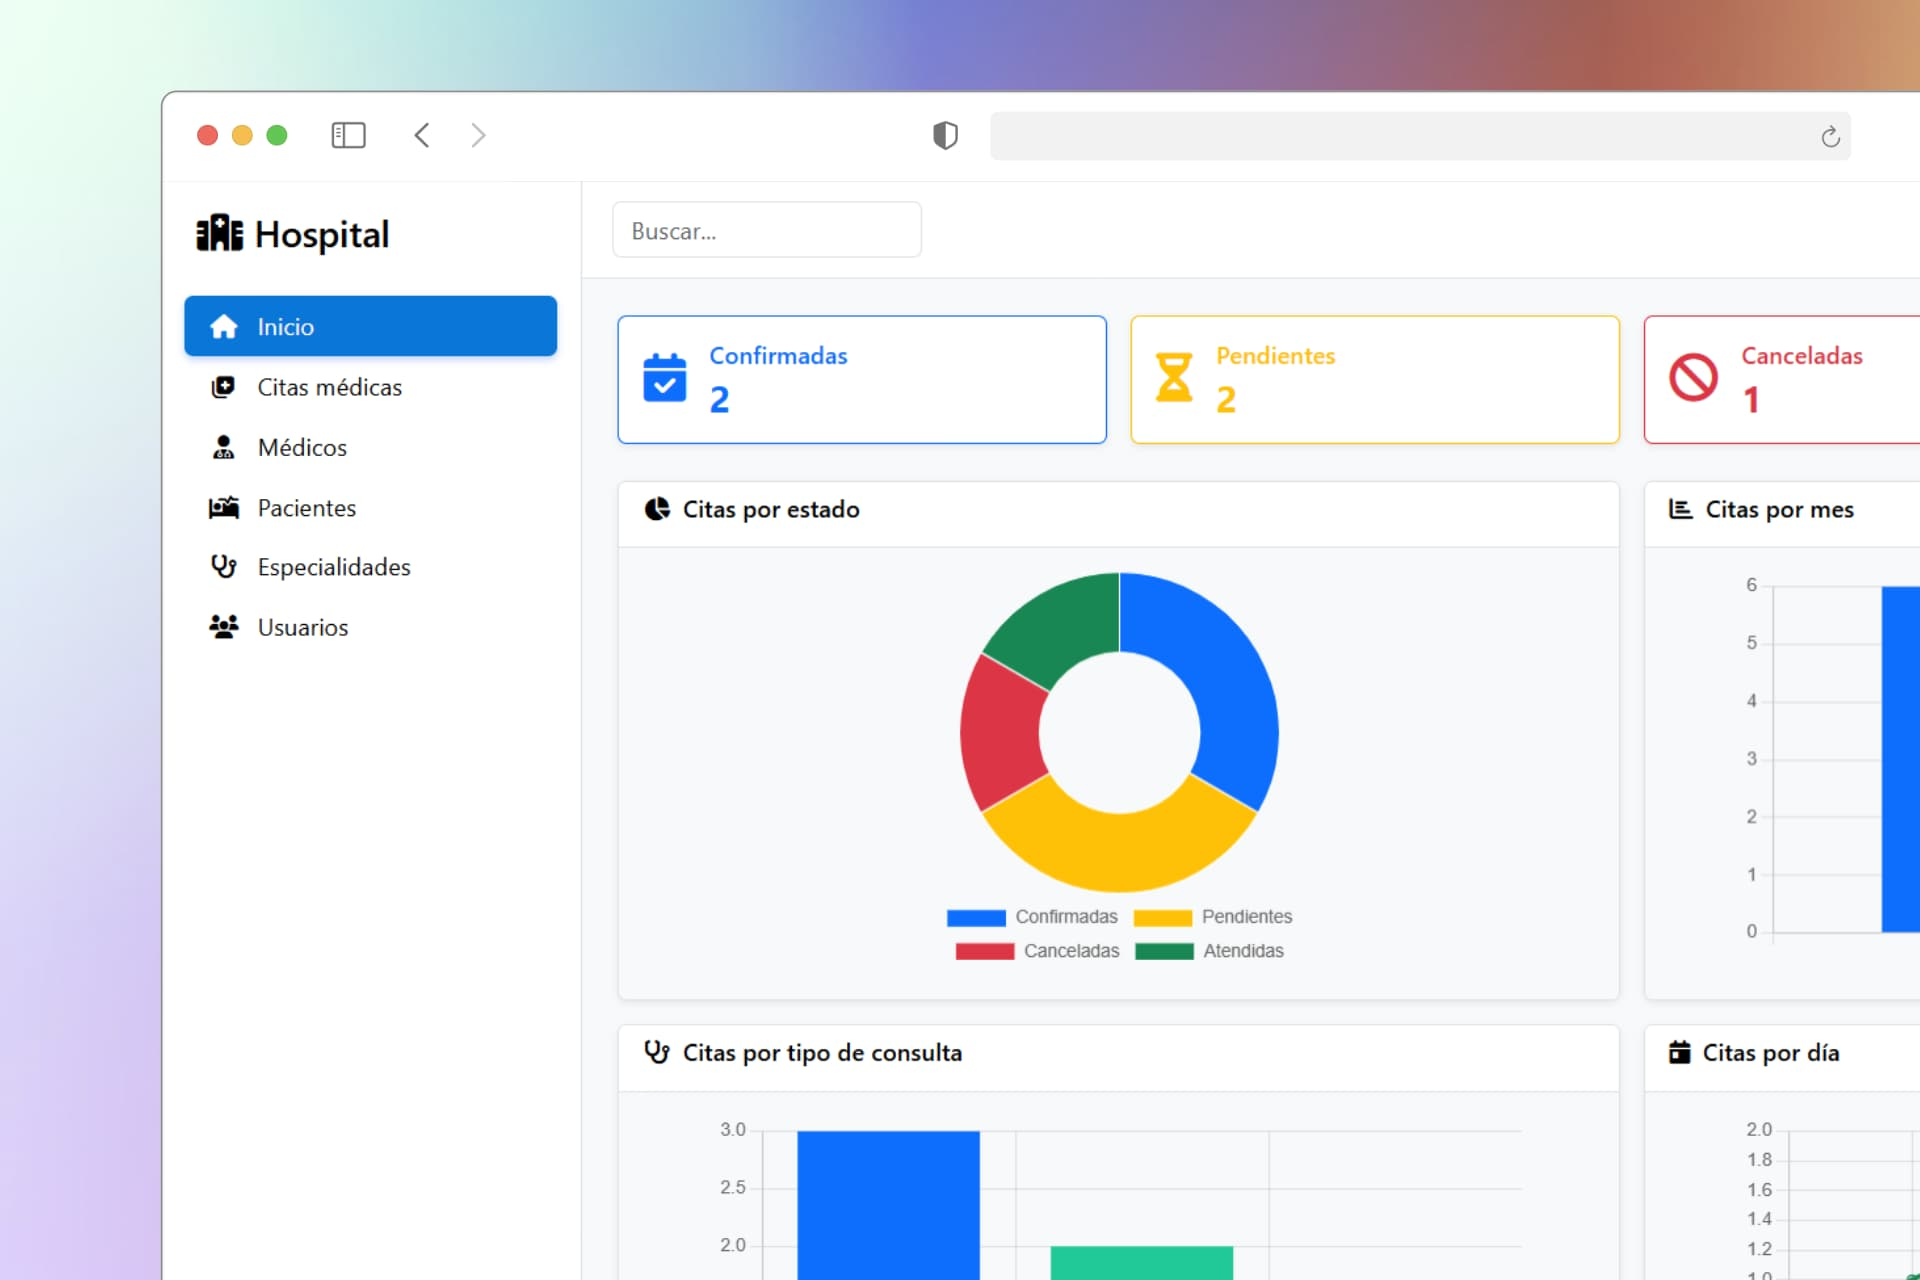
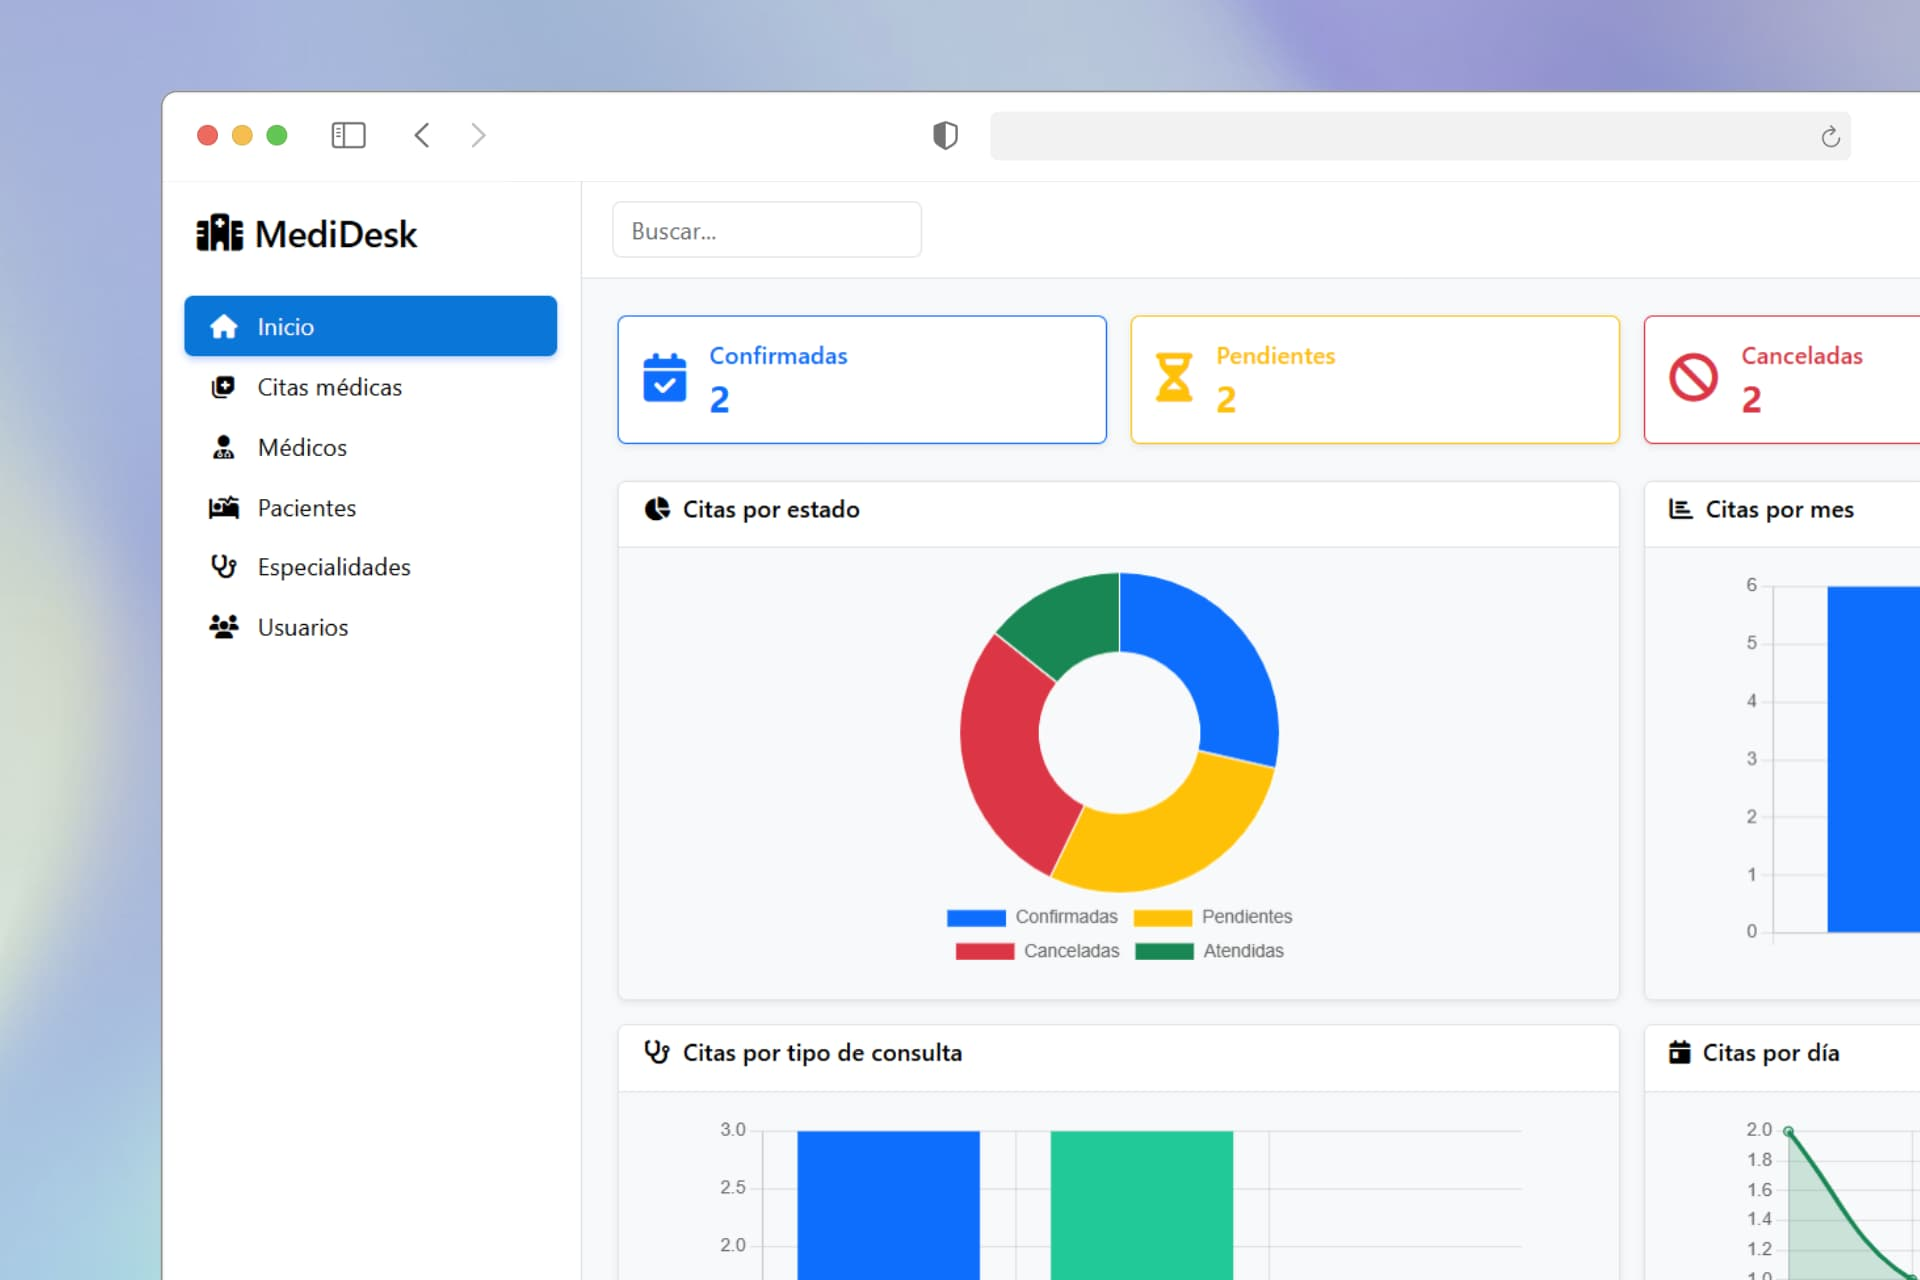
🔧 chore(project): rename repository to medidesk

diff --git a/README.md b/README.md
@@ -1,6 +1,16 @@
-<p align="center">
-  <img src="https://github.com/jaycodev/medical-appointments/blob/main/Assets/readme.jpg" alt="Preview"/>
-</p>
+<div align="center">
+  <a href="#">
+    <img src="./Assets/readme.jpg" alt="Preview">
+  </a>
+  <p></p>
+</div>
+
+<div align="center">
+
+![.NET](https://img.shields.io/badge/.NET-512BD4?logo=.net&logoColor=white&style=flat)
+![Bootstrap](https://img.shields.io/badge/Bootstrap-6f42c1?logo=bootstrap&logoColor=white&style=flat)
+
+</div>
 
 A modern, responsive, and secure web application for managing medical appointments. Designed for administrators, doctors, and patients with features like light/dark mode, user roles, calendar scheduling, and exportable reports.
 
@@ -21,8 +31,8 @@ Follow these steps to run the project locally:
 1. **Clone the repository**
 
    ```bash
-   git clone https://github.com/jaycodev/medical-appointments.git
-   cd medical-appointments
+   git clone https://github.com/jaycodev/medidesk.git
+   cd medidesk
    ```
 
 2. **Copy and edit configuration files**
@@ -88,8 +98,8 @@ Used to connect to your local or remote SQL Server database:
 
 ## 🧑💻 Contributors
 
-<a href="https://github.com/jaycodev/medical-appointments/graphs/contributors">
-  <img src="https://contrib.rocks/image?repo=jaycodev/medical-appointments" />
+<a href="https://github.com/jaycodev/medidesk/graphs/contributors">
+  <img src="https://contrib.rocks/image?repo=jaycodev/medidesk" />
 </a>
 
 ## 📄 License
